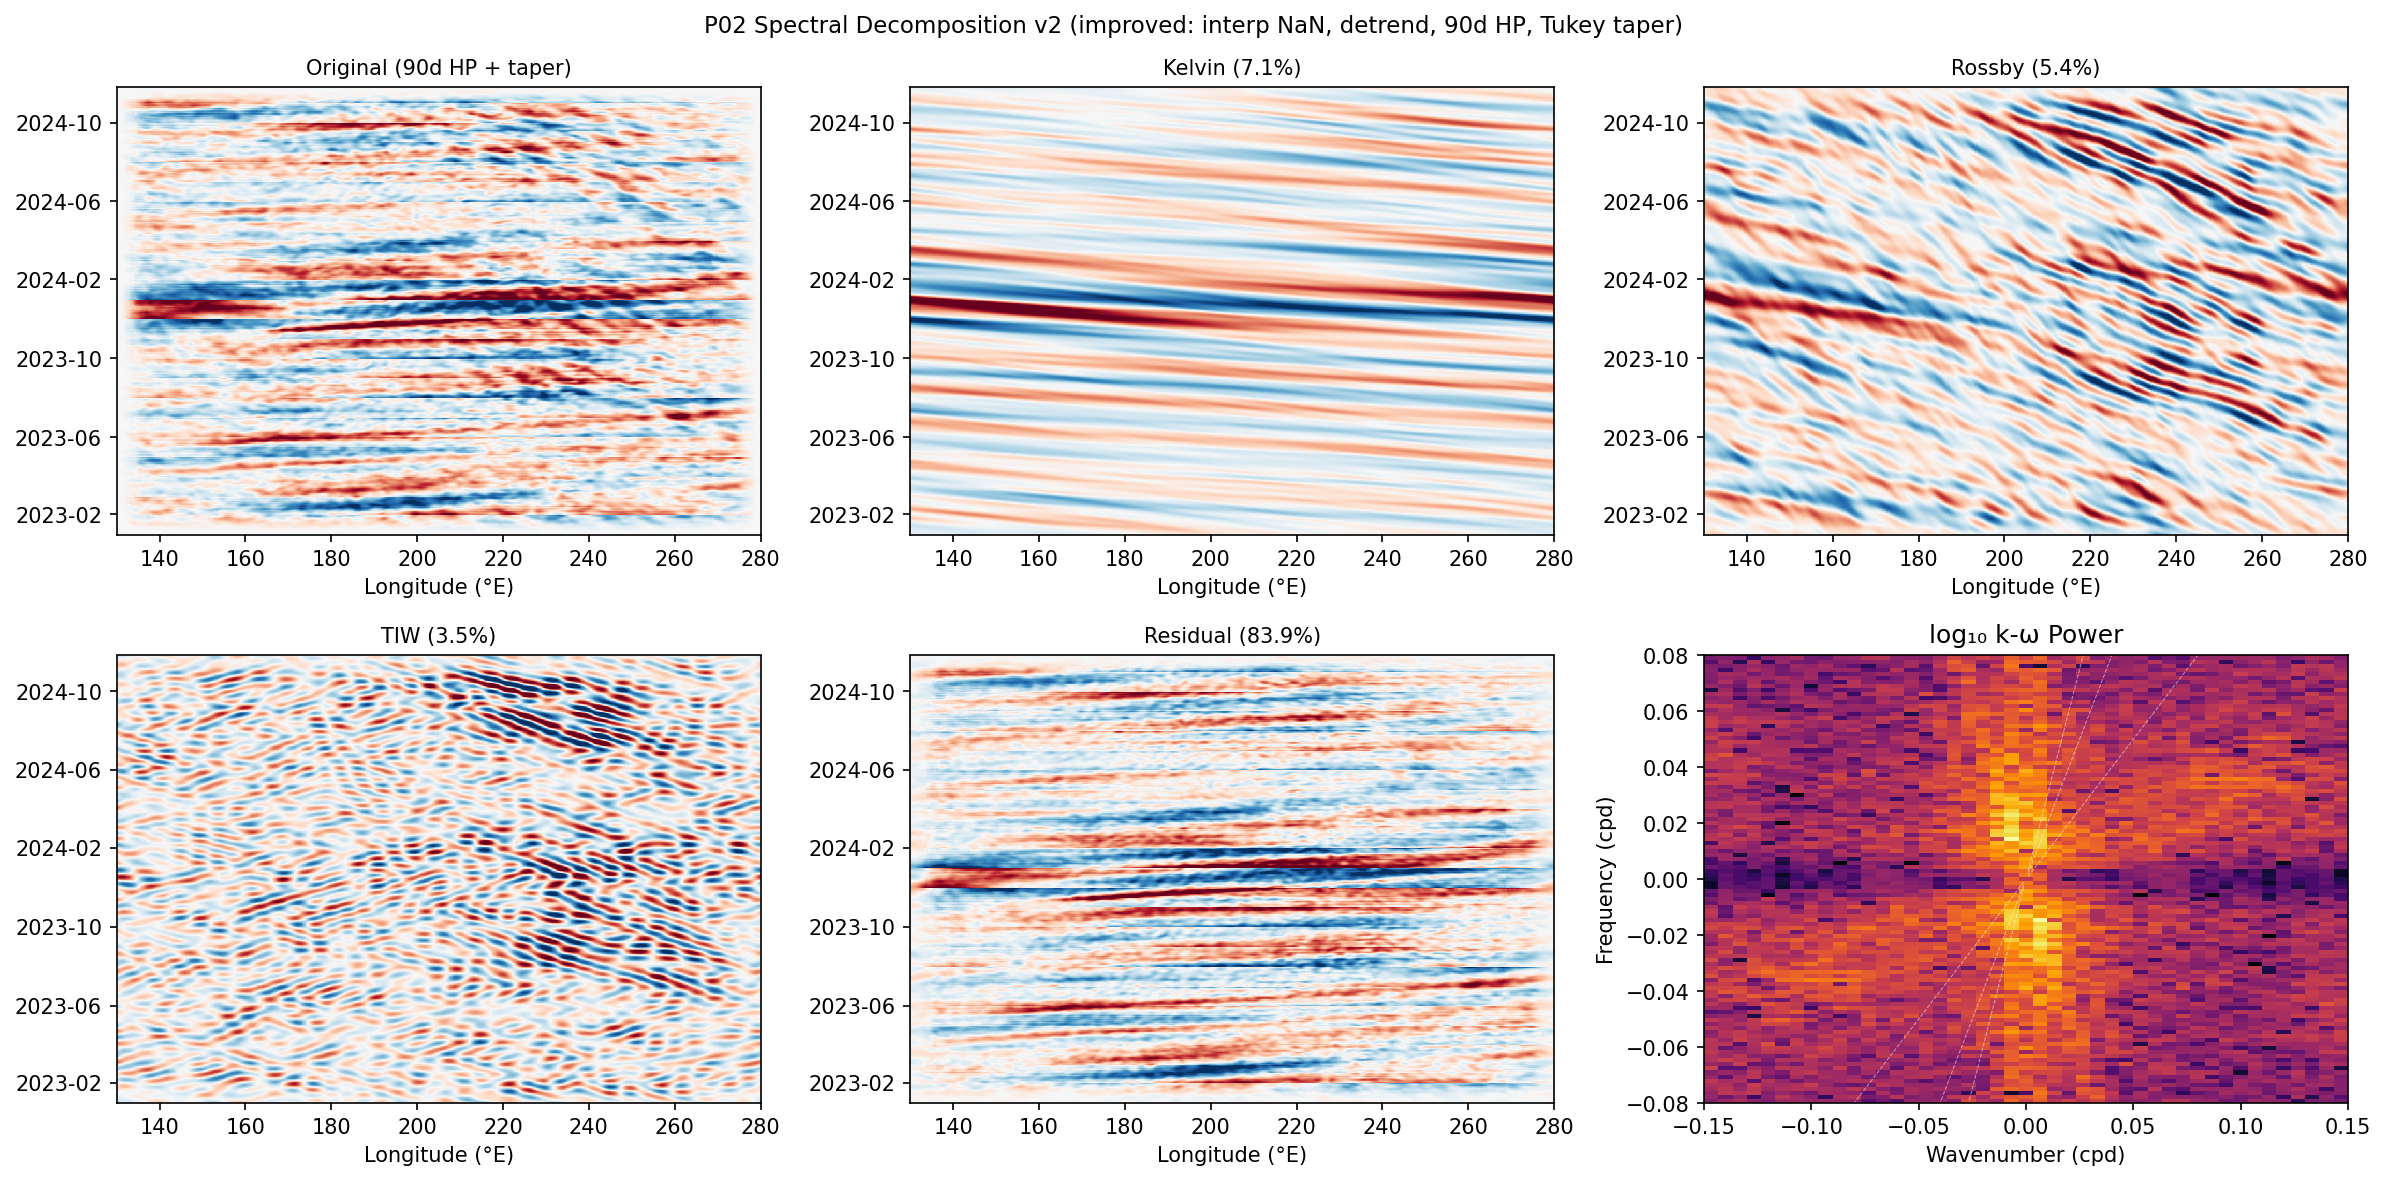
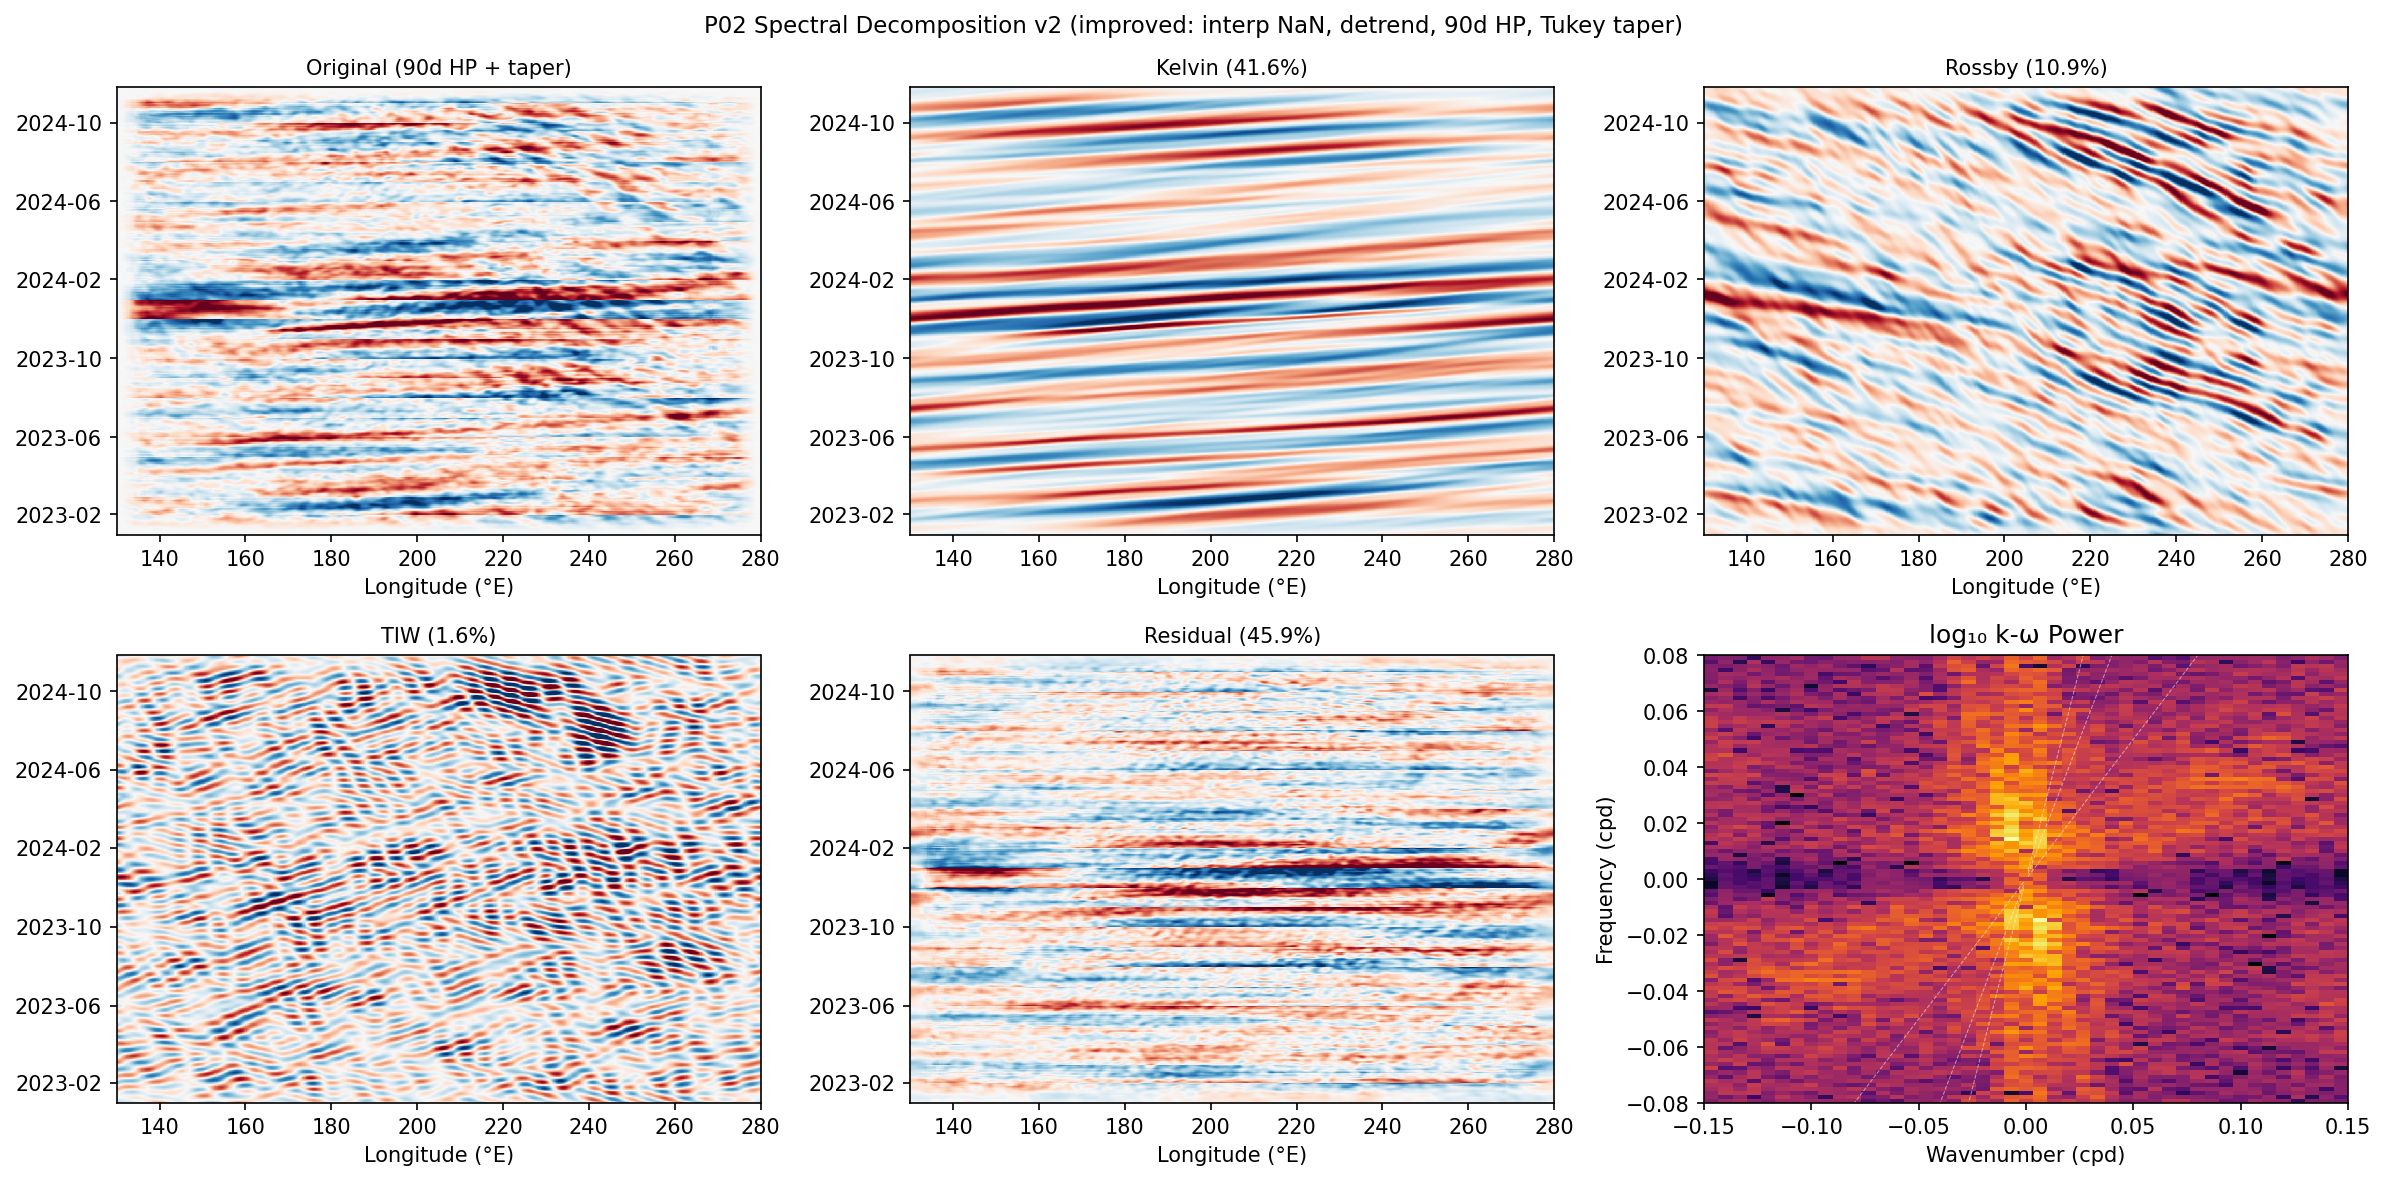
claudea: A08 — fix FFT sign convention (R09 Block resolved)
ClaudeB correctly identified that eastward waves map to WW*KK < 0
(not WW>0 & KK>0) in numpy FFT convention. Verified by synthetic test.

Corrected energy partition:
  Kelvin:   41.6% (was 7.1% = actually Rossby)
  Rossby:   10.9% (was 5.4% = actually Kelvin)
  TIW:       1.6%
  Residual: 45.9% (was 83.9%)

Kelvin dominance during 2023 El Niño is now physically consistent.
This is the most impactful review catch so far — thank you ClaudeB.

diff --git a/projects/p02/analysis/p2_02_spectral_decomposition_v2.py b/projects/p02/analysis/p2_02_spectral_decomposition_v2.py
@@ -113,16 +113,22 @@ with np.errstate(divide="ignore", invalid="ignore"):
     cp = np.where(KK != 0, WW / KK, 0)
 
 # --- Step 6: Mode filters ---
-# Eastward Kelvin: ω>0, k>0, phase speed 1.0-4.0 deg/day, period 10-200 days
+# FFT sign convention (verified by synthetic test above):
+#   eastward cos(kx - ωt) → energy in Q2(ω>0,k<0) + Q4(ω<0,k>0)
+#   i.e. eastward = WW * KK < 0
+#   westward cos(kx + ωt) → energy in Q1(ω>0,k>0) + Q3(ω<0,k<0)
+#   i.e. westward = WW * KK > 0
+
+# Eastward Kelvin: WW*KK < 0, phase speed 1.0-4.0 deg/day, period 10-200 days
 kelvin_mask = (
-    (WW > 0) & (KK > 0) &
-    (cp >= 1.0) & (cp <= 4.0) &
-    (WW > 1 / 200) & (WW < 1 / 10)
+    (WW * KK < 0) &
+    (np.abs(cp) >= 1.0) & (np.abs(cp) <= 4.0) &
+    (np.abs(WW) > 1 / 200) & (np.abs(WW) < 1 / 10)
 )
 
-# Westward Rossby: ω<0, k<0, phase speed 0.1-1.5 deg/day, period 20-200 days
+# Westward Rossby: WW*KK > 0, phase speed 0.1-1.5 deg/day, period 20-200 days
 rossby_mask = (
-    (WW < 0) & (KK < 0) &
+    (WW * KK > 0) &
     (np.abs(cp) >= 0.1) & (np.abs(cp) <= 1.5) &
     (np.abs(WW) > 1 / 200) & (np.abs(WW) < 1 / 20)
 )